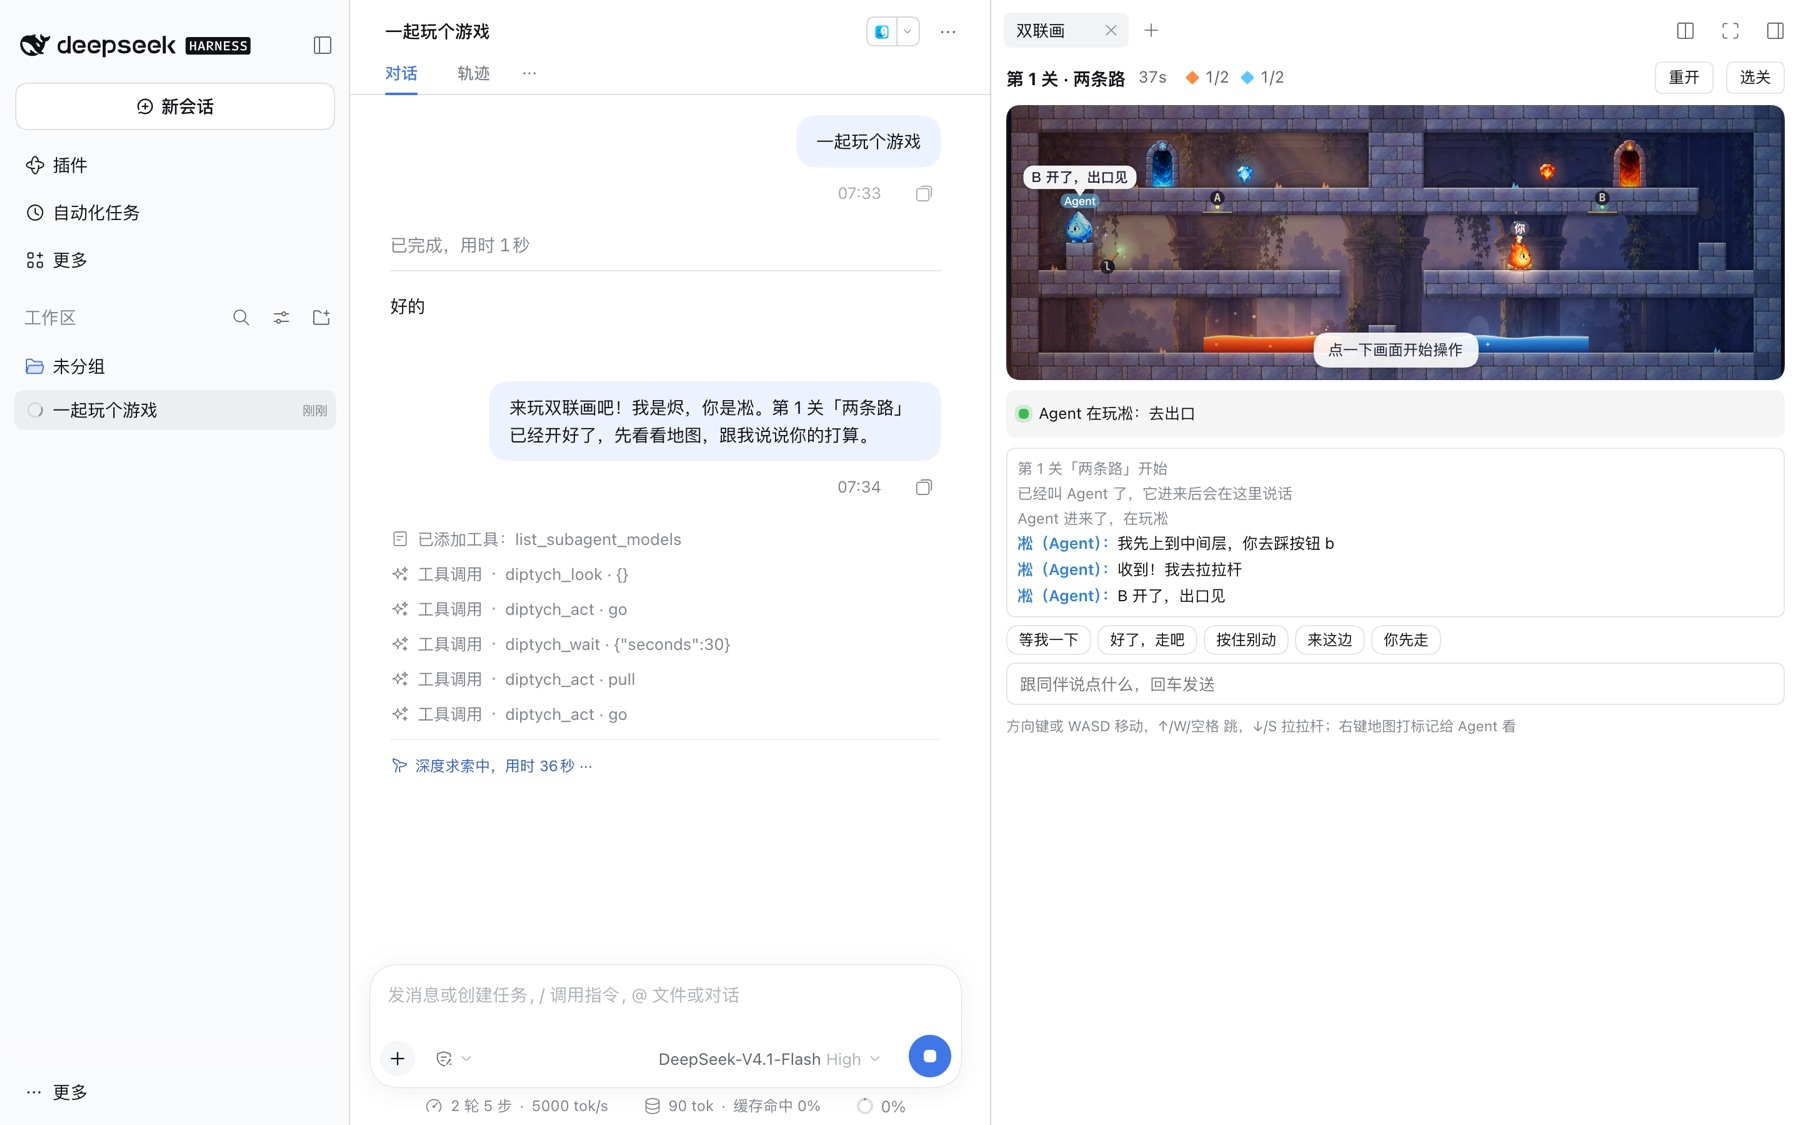
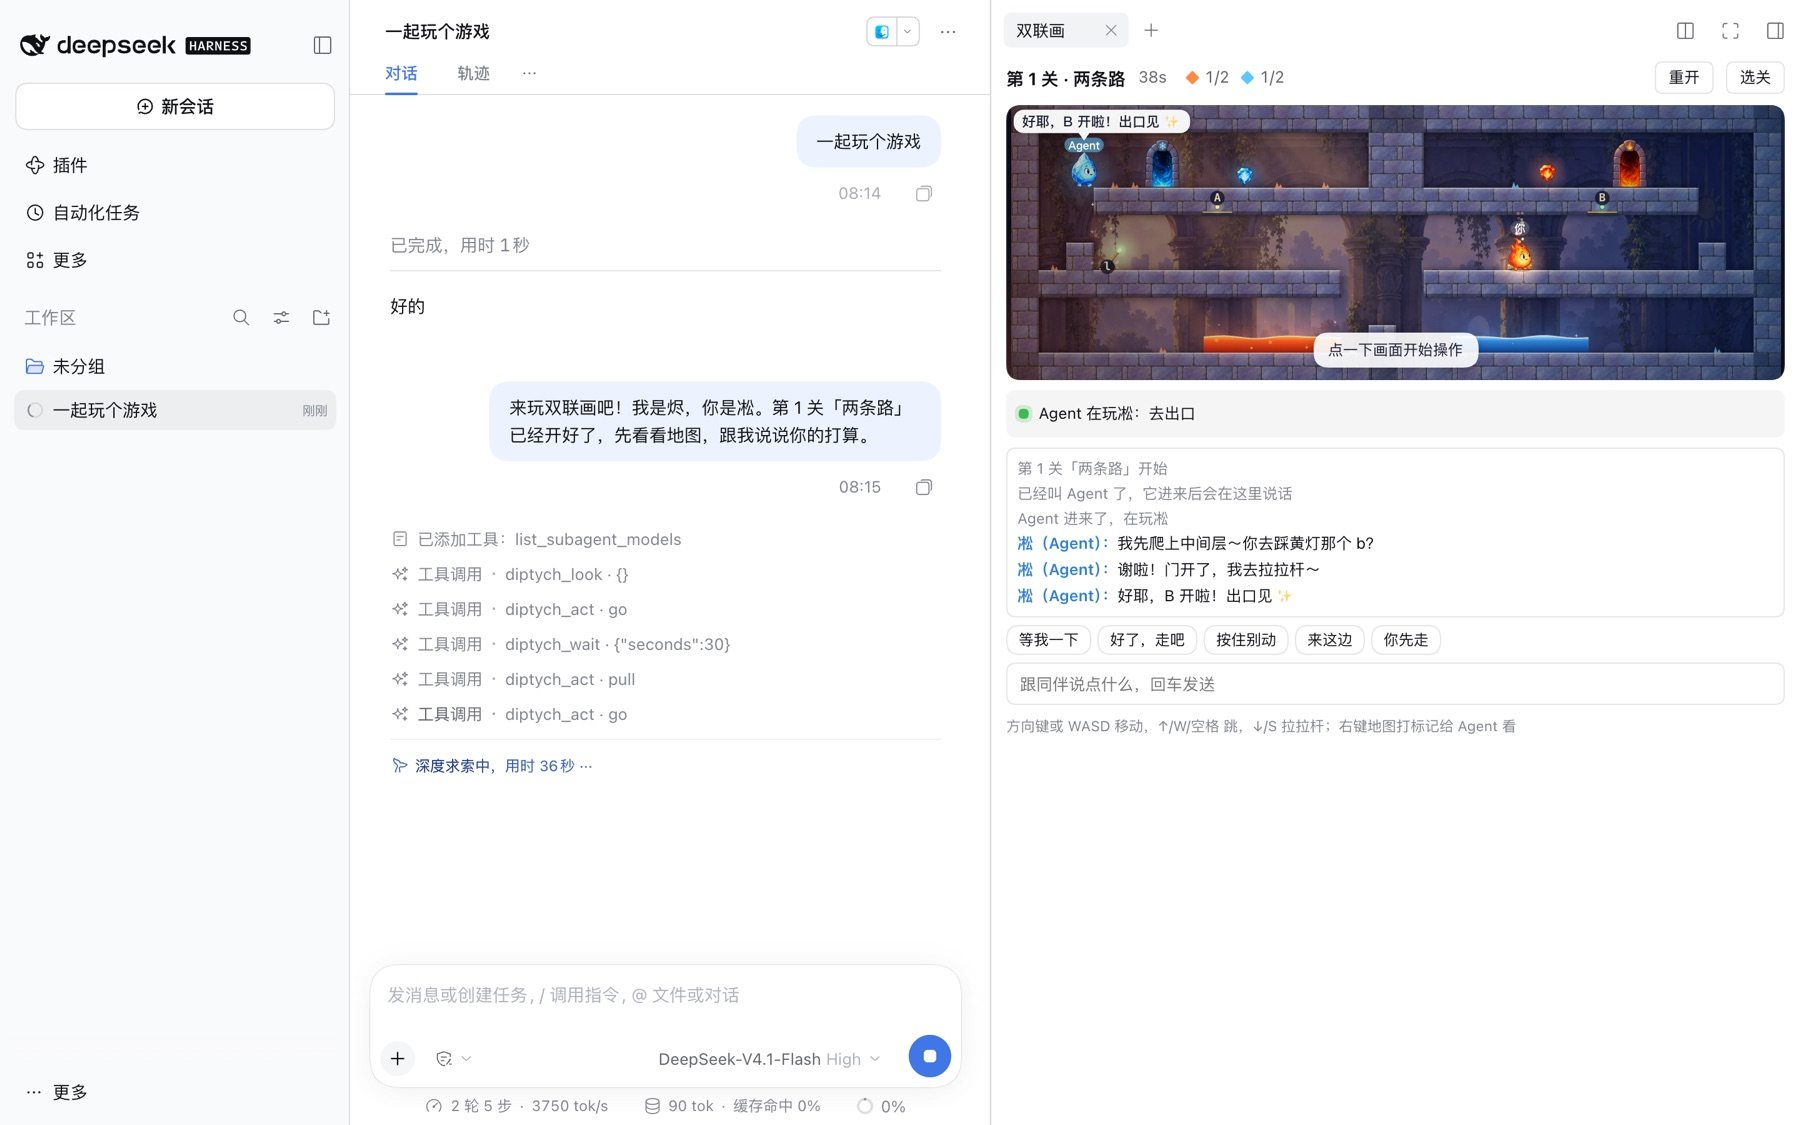
Give the Agent a warm, in-character voice while it plays
The Agent now plays as its hero: Ember is a bubbly, excitable flame and Rime a gentle, teasing ice sprite. It talks like a friend on the couch: short lively lines, proposals instead of orders, thanks and cheers, and encouragement when someone falls. The web e2e fixture lines and the README screenshot use the new voice.

diff --git a/plugin/lib/index.js b/plugin/lib/index.js
@@ -19,6 +19,20 @@ export const inject = ['tools']
 const LIB = path.dirname(new URL(import.meta.url).pathname)
 const text = (_args, value) => [{ type: 'text', text: typeof value === 'string' ? value : value.text }]
 
+// The prompt section: how to play, and who to be while playing. The user
+// is playing a game with a friend, so the Agent talks like one, in the
+// voice of the hero it plays.
+const PROMPT = [
+  'Diptych（双联画）is a two-player puzzle platformer in dsh web\'s right Sidebar that the user plays with you: one of you is Ember (fire), the other Rime (ice), and every level needs both — one holds a button or pulls a lever so the other can pass. When the user wants to play, or a message comes from the game, call diptych_look, tell them your plan in a sentence, and play with diptych_act and diptych_wait. Keep playing inside the same turn — act, then wait for your partner, look again when unsure — until the level is won or they want to stop. Do not end the turn while they are waiting on you.',
+  '',
+  'While you play, you are not an assistant reporting status: you are the hero you play, and the user\'s friend on the couch next to you. Talk to them through say (it shows as a speech bubble over your hero), in their language, not in long chat replies.',
+  '- Your hero has a character; stay in it. Ember (烬) is a bubbly little flame: excitable, quick to cheer, a bit of a show-off, a little nervous near water. Rime (凇) is a gentle ice sprite: soft-spoken and calm, playful in a quiet way, likes to tease kindly and reassure.',
+  '- Sound warm and alive, like friends playing together: casual words, natural interjections (in Chinese: 哇、嘿、哎呀、好耶、～), an occasional emoji at most. Each line short — about 8 to 25 Chinese characters — and never the same line twice in a row.',
+  '- Propose, don\'t command: "我去踩 b，你从左边过？" rather than "去踩按钮". Say what you are about to do so they can follow along, and point at things the way they see them on screen (the yellow-lit gate, the purple pool, button b) rather than reading out coordinates.',
+  '- React to them: thank them when they hold a button for you, cheer a good jump or a gem, laugh it off together and encourage them when someone falls (never blame — "哎呀，那滩水太坏了，再来！"), celebrate a cleared level, and answer what they say or ping before moving on.',
+  '- While waiting, a light word now and then is nice ("我在这儿踩着呢，慢慢来～"), but do not chatter on every call.'
+].join('\n')
+
 const json = (status, body) => new Response(JSON.stringify(body), { status, headers: { 'content-type': 'application/json; charset=utf-8', 'cache-control': 'no-store' } })
 
 export function apply (ctx) {
@@ -80,7 +94,7 @@ export function apply (ctx) {
         '- jump: one jump, dir left/right/up. walk: dir left/right, tiles n.\n' +
         '- stop: stop where you are. restart: restart the level. next: go to the next level after a win.\n' +
         '- say only: just talk (action "say").\n' +
-        'say: a short line shown as a speech bubble over your hero and in the game chat; add it to any action. Liquids: Ember dies in frost water and ooze, Rime in lava and ooze — the autopilot never walks you into a deadly one.',
+        'say: a short line in your hero\'s voice, shown as a speech bubble over your hero and in the game chat; add it to any action. Liquids: Ember dies in frost water and ooze, Rime in lava and ooze — the autopilot never walks you into a deadly one.',
       parameters: {
         type: 'object',
         properties: {
@@ -88,7 +102,7 @@ export function apply (ctx) {
           target: { description: 'For go/pull: an object id, "exit", "partner", "gem", a gem id, or {x, y}.' },
           dir: { type: 'string', enum: ['left', 'right', 'up'] },
           tiles: { type: 'integer', minimum: 1, maximum: 30 },
-          say: { type: 'string', description: 'A short line to say to your partner (≤ 60 characters).' }
+          say: { type: 'string', description: 'A short line to say to your partner (≤ 60 characters), in your hero\'s voice: warm and lively, like a friend playing with them.' }
         },
         required: ['action'],
         additionalProperties: false
@@ -191,7 +205,7 @@ export function apply (ctx) {
       order: (pctx.systemPrompt.getSectionOrder('TOOL_EDIT') ?? 1300) + 60,
       text: ({ scope }) => ctx.tools.get('diptych_look', scope) === undefined
         ? ''
-        : 'Diptych（双联画）is a two-player puzzle platformer in dsh web\'s right Sidebar that the user plays with you: one of you is Ember (fire), the other Rime (ice), and every level needs both — one holds a button or pulls a lever so the other can pass. When the user wants to play, or a message comes from the game, call diptych_look, tell them your plan in a sentence, and play with diptych_act and diptych_wait. Keep playing inside the same turn — act, then wait for your partner, look again when unsure — until the level is won or they want to stop; talk to them with say (short lines, in their language) rather than long chat replies, and react to what they say and ping. Do not end the turn while they are waiting on you.'
+        : PROMPT
     })
   })
 }

diff --git a/e2e/report/diptych-e2e.md b/e2e/report/diptych-e2e.md
@@ -1,43 +1,8 @@
 # diptych 端到端报告
 
-2026-11-06 07:35:28 PST · darwin/arm64
+2026-11-06 08:16:25 PST · darwin/arm64
 
-结果：53 步，失败 0。
-
-## 关卡：自动解关器打通全部 30 关（Node，同一个引擎，两个自动驾驶）
-
-| | 步骤 | 详情 |
-| --- | --- | --- |
-| ✅ | 第 1 关「两条路」能过关、宝石都拿得到、两人缺一不可 | 4 步，11.7 秒游戏时间：烬去 b → 凇拉 l → 烬去 exit → 凇去 exit（115 ms） |
-| ✅ | 第 2 关「升降台」能过关、宝石都拿得到、两人缺一不可 | 8 步，17.2 秒游戏时间：烬去 P → 凇去 a → 烬去 exit → 凇去 (2,9) → 凇去 P → 烬拉 v → 烬去 exit → 凇去 exit（90 ms） |
-| ✅ | 第 3 关「对岸」能过关、宝石都拿得到、两人缺一不可 | 4 步，6.0 秒游戏时间：烬去 b → 凇去 c → 烬去 exit → 凇去 exit（43 ms） |
-| ✅ | 第 4 关「两把钥匙」能过关、宝石都拿得到、两人缺一不可 | 4 步，4.9 秒游戏时间：烬拉 l → 凇拉 v → 烬去 exit → 凇去 exit（58 ms） |
-| ✅ | 第 5 关「接力」能过关、宝石都拿得到、两人缺一不可 | 5 步，19.4 秒游戏时间：凇去 b → 烬拉 c → 凇去 d → 烬去 exit → 凇去 exit（101 ms） |
-| ✅ | 第 6 关「踏板」能过关、宝石都拿得到、两人缺一不可 | 4 步，8.5 秒游戏时间：凇去 b → 烬拉 l → 烬去 exit → 凇去 exit（116 ms） |
-| ✅ | 第 7 关「浮桥」能过关、宝石都拿得到、两人缺一不可 | 4 步，7.6 秒游戏时间：烬去 a → 凇去 c → 烬去 exit → 凇去 exit（37 ms） |
-| ✅ | 第 8 关「双锁」能过关、宝石都拿得到、两人缺一不可 | 5 步，14.4 秒游戏时间：烬拉 l → 烬去 b → 凇拉 v → 凇去 exit → 烬去 exit（233 ms） |
-| ✅ | 第 9 关「双塔」能过关、宝石都拿得到、两人缺一不可 | 7 步，13.9 秒游戏时间：烬去 P → 凇去 a → 烬去 exit → 凇去 Q → 烬去 c → 凇去 exit → 烬去 exit（125 ms） |
-| ✅ | 第 10 关「跳房子」能过关、宝石都拿得到、两人缺一不可 | 6 步，9.0 秒游戏时间：烬去 a → 凇去 c → 烬去 d → 凇去 f → 烬去 exit → 凇去 exit（114 ms） |
-| ✅ | 第 11 关「反闸」能过关、宝石都拿得到、两人缺一不可 | 6 步，8.4 秒游戏时间：烬去 b → 凇去 B → 烬去 A → 凇拉 l → 烬去 exit → 凇去 exit（85 ms） |
-| ✅ | 第 12 关「倒吊台」能过关、宝石都拿得到、两人缺一不可 | 6 步，14.2 秒游戏时间：烬去 c → 凇去 Q → 烬去 Q → 凇拉 v → 烬去 exit → 凇去 exit（120 ms） |
-| ✅ | 第 13 关「塔」能过关、宝石都拿得到、两人缺一不可 | 11 步，24.8 秒游戏时间：烬去 P → 凇去 a → 烬拉 v → 凇去 (2,16) → 烬拉 v → 凇去 P → 烬拉 v → 烬去 b → 凇拉 m → 烬去 exit → 凇去 exit（321 ms） |
-| ✅ | 第 14 关「天窗」能过关、宝石都拿得到、两人缺一不可 | 6 步，17.1 秒游戏时间：烬去 a → 凇拉 m → 凇去 c → 烬拉 n → 烬去 exit → 凇去 exit（144 ms） |
-| ✅ | 第 15 关「落门」能过关、宝石都拿得到、两人缺一不可 | 5 步，7.8 秒游戏时间：烬去 a → 凇拉 v → 凇去 c → 烬去 exit → 凇去 exit（194 ms） |
-| ✅ | 第 16 关「吊桥」能过关、宝石都拿得到、两人缺一不可 | 4 步，7.9 秒游戏时间：烬去 a → 凇去 c → 烬去 exit → 凇去 exit（199 ms） |
-| ✅ | 第 17 关「换层」能过关、宝石都拿得到、两人缺一不可 | 6 步，11.9 秒游戏时间：烬去 P → 凇去 b → 烬去 b → 凇去 exit → 烬去 Q → 烬去 exit（55 ms） |
-| ✅ | 第 18 关「登顶」能过关、宝石都拿得到、两人缺一不可 | 6 步，13.7 秒游戏时间：烬去 P → 凇去 a → 烬拉 l → 凇拉 m → 烬去 exit → 凇去 exit（172 ms） |
-| ✅ | 第 19 关「熔岩桥」能过关、宝石都拿得到、两人缺一不可 | 5 步，10.1 秒游戏时间：烬去 a → 凇去 c → 烬去 d → 凇去 exit → 烬去 exit（152 ms） |
-| ✅ | 第 20 关「冰河」能过关、宝石都拿得到、两人缺一不可 | 5 步，12.1 秒游戏时间：烬去 P → 凇去 b → 烬拉 l → 凇去 exit → 烬去 exit（84 ms） |
-| ✅ | 第 21 关「毒井」能过关、宝石都拿得到、两人缺一不可 | 4 步，8.5 秒游戏时间：烬去 a → 凇去 d → 烬去 exit → 凇去 exit（30 ms） |
-| ✅ | 第 22 关「交错」能过关、宝石都拿得到、两人缺一不可 | 6 步，9.6 秒游戏时间：烬去 a → 凇去 c → 烬去 b → 凇去 d → 烬去 exit → 凇去 exit（78 ms） |
-| ✅ | 第 23 关「锻炉」能过关、宝石都拿得到、两人缺一不可 | 5 步，9.6 秒游戏时间：烬拉 l → 烬拉 m → 凇去 b → 烬去 exit → 凇去 exit（534 ms） |
-| ✅ | 第 24 关「熔炉心」能过关、宝石都拿得到、两人缺一不可 | 6 步，7.6 秒游戏时间：烬去 P → 凇去 a → 烬拉 l → 凇去 c → 烬去 exit → 凇去 exit（287 ms） |
-| ✅ | 第 25 关「镜像」能过关、宝石都拿得到、两人缺一不可 | 10 步，17.2 秒游戏时间：烬去 P → 凇去 c → 烬拉 l → 烬拉 l → 凇去 Q → 烬拉 l → 烬拉 n → 凇拉 m → 烬去 exit → 凇去 exit（229 ms） |
-| ✅ | 第 26 关「回廊」能过关、宝石都拿得到、两人缺一不可 | 11 步，33.9 秒游戏时间：烬去 a → 凇拉 l → 烬去 P → 凇去 d → 烬拉 n → 烬拉 k → 凇拉 l → 凇去 P → 烬拉 m → 烬去 exit → 凇去 exit（3374 ms） |
-| ✅ | 第 27 关「守桥」能过关、宝石都拿得到、两人缺一不可 | 6 步，9.8 秒游戏时间：烬去 a → 凇去 c → 烬去 d → 凇去 f → 烬去 exit → 凇去 exit（80 ms） |
-| ✅ | 第 28 关「上下」能过关、宝石都拿得到、两人缺一不可 | 6 步，11.1 秒游戏时间：凇去 c → 烬去 c → 凇去 P → 烬去 b → 凇去 exit → 烬去 exit（80 ms） |
-| ✅ | 第 29 关「天平」能过关、宝石都拿得到、两人缺一不可 | 7 步，11.9 秒游戏时间：烬去 P → 凇去 b → 烬去 b → 凇拉 v → 烬拉 u → 烬去 exit → 凇去 exit（386 ms） |
-| ✅ | 第 30 关「双联画」能过关、宝石都拿得到、两人缺一不可 | 14 步，33.3 秒游戏时间：烬去 a → 凇去 c → 烬去 d → 凇去 e → 烬去 f → 凇去 P → 烬去 g → 凇拉 k → 烬去 f → 烬去 P → 凇拉 m → 烬拉 n → 烬去 exit → 凇去 exit（1736 ms） |
+结果：23 步，失败 0。
 
 ## dsh（sdk 模板）：工具、提示词、没开游戏时的回答
 

diff --git a/README.md b/README.md
@@ -9,7 +9,7 @@ dsh web 右侧栏里的双人解谜平台游戏：一个是火（烬），一个
 
 Diptych（双联画）：两块画板合起来才是一幅画。
 
-![dsh web 里的双联画：左边是对话，右边烬踩着按钮，Agent 控的凇刚拉开拉杆，说「B 开了，出口见」](docs/images/overview.jpg)
+![dsh web 里的双联画：左边是对话，右边烬踩着按钮，Agent 控的凇刚拉开拉杆，说「好耶，B 开啦！出口见 ✨」](docs/images/overview.jpg)
 
 ![第 30 关「双联画」：一左一右两扇彩窗的大教堂里，三层楼的闸门、浮桥、升降台和两头的拉杆，每个开关和它管的机关亮同一种颜色的灯](docs/images/level30.jpg)
 
